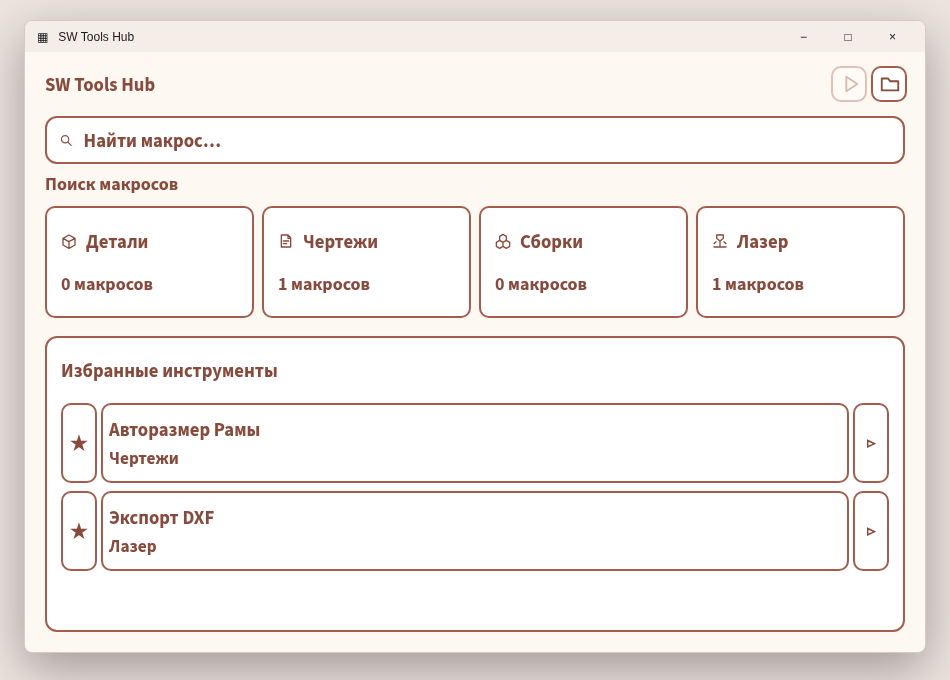
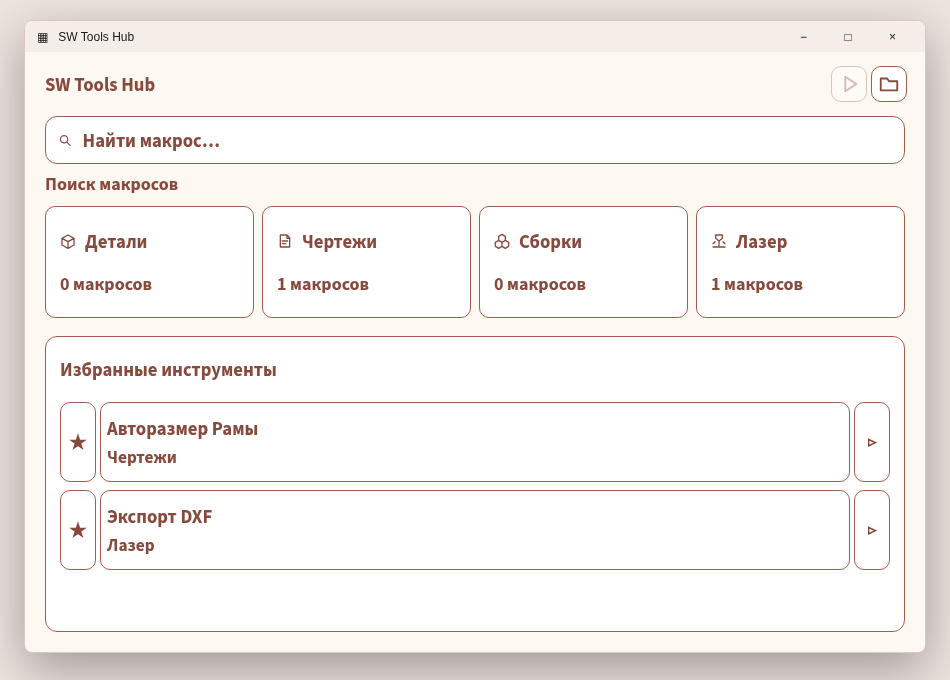
Вернуть тонкую окантовку, сохранив шрифт 14 pt и тёмный текст

diff --git a/docs/preview/index.html b/docs/preview/index.html
@@ -1,7 +1,7 @@
 <!doctype html><html lang="ru"><meta charset="utf-8"><title>SW Tools Hub — предварительный просмотр</title><style>
 @font-face{font-family:'Source Sans 3';src:url('../../addin/portable/Fonts/SourceSans3-Bold.ttf') format('truetype');font-weight:700;font-style:normal;font-display:block}
 
-*{box-sizing:border-box}body{margin:0;background:#EDE4DF;font:18.667px 'Source Sans 3','Segoe UI',Arial,sans-serif;font-weight:700;color:#874B3D;display:flex;justify-content:center;padding:20px}.window{width:902px;height:633px;background:#FEF8F2;border:1px solid #DDC8BF;border-radius:8px;overflow:hidden;box-shadow:0 16px 50px #0005}.titlebar{font-family:'Segoe UI',Arial,sans-serif;font-weight:400;height:31px;background:#F5EDE8;color:#18191c;display:flex;align-items:center;justify-content:space-between;padding:0 12px;font-size:12px}.titlebar span:last-child{letter-spacing:17px}.app{height:600px;display:flex;flex-direction:column}.header{height:64px;padding:12px 18px 12px 20px;display:flex;align-items:center;justify-content:space-between}strong{font-size:18.667px;font-weight:700}.toolbar{display:flex;gap:4px}button{border-radius:10px;border:2px solid #A35D4C;font:inherit;cursor:pointer;color:inherit;background:#FFFFFF}.toolbar button{width:36px;height:36px;display:grid;place-items:center}.toolbar button:hover,.tile:hover{background:#FFF6F0}svg{width:22px;height:22px;fill:none;stroke:currentColor;stroke-width:2;stroke-linejoin:round;stroke-linecap:round}.toolbar .disabled{opacity:.35}.search{height:48px;margin:0 20px 8px;padding:10px 12px;background:#FFFFFF;border:2px solid #A35D4C;border-radius:12px;display:flex;align-items:center;gap:8px}.search svg{width:15px;height:15px;color:#874B3D}.search input{color:#874B3D;background:transparent;border:0;outline:none;width:100%;font:inherit}.hint{height:30px;margin:0 20px;color:#874B3D;font-size:18px}.modules{height:112px;margin:4px 20px 8px;display:grid;grid-template-columns:repeat(4,minmax(0,1fr));gap:8px}.tile{text-align:left;padding:12px 14px;display:flex;flex-direction:column;justify-content:center;gap:18px}.tile .caption{display:flex;gap:9px;align-items:center}.tile svg{width:16px;height:16px}.tile small{font-size:18px;color:#874B3D}.tile.active{background:#FFF6F0}.content{flex:1;min-height:0;margin:10px 20px 20px;padding:20px 14px;background:#FFFFFF;border:2px solid #A35D4C;border-radius:12px;overflow:auto}h2{font-size:18.667px;margin:0 0 20px;font-weight:700}.empty{line-height:1.7;color:#874B3D;margin:0;font-size:18px}.status{display:none;height:44px;color:#874B3D;font-size:18px;padding:4px 20px}.footer{display:none;height:34px;padding:8px 20px;color:#874B3D;font-size:18px}.tag{font-size:10px;color:#874B3D;margin-top:15px}
+*{box-sizing:border-box}body{margin:0;background:#EDE4DF;font:18.667px 'Source Sans 3','Segoe UI',Arial,sans-serif;font-weight:700;color:#874B3D;display:flex;justify-content:center;padding:20px}.window{width:902px;height:633px;background:#FEF8F2;border:1px solid #DDC8BF;border-radius:8px;overflow:hidden;box-shadow:0 16px 50px #0005}.titlebar{font-family:'Segoe UI',Arial,sans-serif;font-weight:400;height:31px;background:#F5EDE8;color:#18191c;display:flex;align-items:center;justify-content:space-between;padding:0 12px;font-size:12px}.titlebar span:last-child{letter-spacing:17px}.app{height:600px;display:flex;flex-direction:column}.header{height:64px;padding:12px 18px 12px 20px;display:flex;align-items:center;justify-content:space-between}strong{font-size:18.667px;font-weight:700}.toolbar{display:flex;gap:4px}button{border-radius:10px;border:1px solid #A35D4C;font:inherit;cursor:pointer;color:inherit;background:#FFFFFF}.toolbar button{width:36px;height:36px;display:grid;place-items:center}.toolbar button:hover,.tile:hover{background:#FFF6F0}svg{width:22px;height:22px;fill:none;stroke:currentColor;stroke-width:2;stroke-linejoin:round;stroke-linecap:round}.toolbar .disabled{opacity:.35}.search{height:48px;margin:0 20px 8px;padding:10px 12px;background:#FFFFFF;border:1px solid #A35D4C;border-radius:12px;display:flex;align-items:center;gap:8px}.search svg{width:15px;height:15px;color:#874B3D}.search input{color:#874B3D;background:transparent;border:0;outline:none;width:100%;font:inherit}.hint{height:30px;margin:0 20px;color:#874B3D;font-size:18px}.modules{height:112px;margin:4px 20px 8px;display:grid;grid-template-columns:repeat(4,minmax(0,1fr));gap:8px}.tile{text-align:left;padding:12px 14px;display:flex;flex-direction:column;justify-content:center;gap:18px}.tile .caption{display:flex;gap:9px;align-items:center}.tile svg{width:16px;height:16px}.tile small{font-size:18px;color:#874B3D}.tile.active{background:#FFF6F0}.content{flex:1;min-height:0;margin:10px 20px 20px;padding:20px 14px;background:#FFFFFF;border:1px solid #A35D4C;border-radius:12px;overflow:auto}h2{font-size:18.667px;margin:0 0 20px;font-weight:700}.empty{line-height:1.7;color:#874B3D;margin:0;font-size:18px}.status{display:none;height:44px;color:#874B3D;font-size:18px;padding:4px 20px}.footer{display:none;height:34px;padding:8px 20px;color:#874B3D;font-size:18px}.tag{font-size:10px;color:#874B3D;margin-top:15px}
 .macro-row{display:grid;grid-template-columns:36px minmax(0,1fr) 36px;align-items:stretch;gap:4px;margin:0 0 8px;min-height:80px}.macro-row button{padding:6px;background:#FFFFFF;border-color:#A35D4C}.macro-name{text-align:left;min-width:0}.macro-name span{display:block;white-space:nowrap;overflow:hidden;text-overflow:ellipsis}.macro-name small{display:block;margin-top:5px;color:#874B3D;font:inherit;font-size:17.333px}.macro-name.selected{background:#FFF6F0}.row-play svg{width:17px;height:17px}.row-star{font-size:20px}
 .header,.search,.hint,.modules{flex-shrink:0}
 .tile,.macro-row button{background:#FFFFFF;color:#874B3D;border-color:#A35D4C}
@@ -9,7 +9,7 @@
 .tile:hover,.tile.active,.macro-row button:hover,.macro-name.selected{background:#FFF6F0;border-color:#A35D4C}
 .toolbar button{background:#FFFFFF;color:#874B3D;border-color:#A35D4C}
 .toolbar button:hover{background:#FFF6F0;border-color:#A35D4C}
-button:focus-visible{outline:3px solid #A35D4C;outline-offset:2px}
+button:focus-visible{outline:2px solid #A35D4C;outline-offset:2px}
 .search:focus-within{border-color:#A35D4C}
 .search input::placeholder{color:#874B3D;opacity:1}
 </style><body><div class="window"><div class="titlebar"><span>▦ &nbsp; SW Tools Hub</span><span>− □ ×</span></div><main class="app"><header class="header"><strong>SW Tools Hub</strong><div class="toolbar"><button class="disabled" title="Выберите макрос для запуска"><svg viewBox="0 0 24 24"><path d="m8 4 12 8-12 8Z"/></svg></button><button title="Выбрать папку библиотеки" onclick="document.getElementById('status').textContent='В приложении откроется системный выбор папки Windows.'"><svg viewBox="0 0 24 24"><path d="M3 6h7l2 3h9v10H3Z"/></svg></button></div></header><div class="search"><svg viewBox="0 0 24 24"><circle cx="10" cy="10" r="6"/><path d="m15 15 5 5"/></svg><input aria-label="Поиск макросов" oninput="render()" placeholder="Найти макрос…"></div><div class="hint">Поиск макросов</div><section class="modules"><button class="tile" onclick="show('Детали',this)"><span class="caption"><svg viewBox="0 0 24 24"><path d="m12 3 9 5v10l-9 5-9-5V8Zm0 10 9-5M3 8l9 5v10"/></svg>Детали</span><small>0 макросов</small></button><button class="tile" onclick="show('Чертежи',this)"><span class="caption"><svg viewBox="0 0 24 24"><path d="M5 3h10l4 4v14H5Zm10 0v5h4M8 12h8M8 16h5"/></svg>Чертежи</span><small>0 макросов</small></button><button class="tile" onclick="show('Сборки',this)"><span class="caption"><svg viewBox="0 0 24 24"><path d="m12 2 5 3v6l-5 3-5-3V5Zm-5 9-5 3v6l5 3 5-3v-6Zm10 0-5 3v6l5 3 5-3v-6Z"/></svg>Сборки</span><small>0 макросов</small></button><button class="tile" onclick="show('Лазер',this)"><span class="caption"><svg viewBox="0 0 24 24"><path d="M7 3h10v5l-5 4-5-4Zm5 9v7M3 21h18M6 13l-3 3m15-3 3 3"/></svg>Лазер</span><small>0 макросов</small></button></section><section class="content"><h2 id="heading">Избранные инструменты</h2><div id="rows"></div><p class="empty" id="empty">Нажмите ☆ рядом с макросом в разделе,<br>чтобы добавить его в избранное.</p></section><div class="status" id="status">Добавьте .swp в папки разделов библиотеки.</div><footer class="footer">0 инструментов · Portable</footer></main></div><script>

diff --git a/addin/portable/UiTheme.cs b/addin/portable/UiTheme.cs
@@ -55,9 +55,9 @@ namespace SWToolsHub.Portable
         {
             e.Graphics.Clear(Parent?.BackColor ?? BackColor);
             e.Graphics.SmoothingMode = SmoothingMode.AntiAlias;
-            using (var path = UiTheme.Shape(new RectangleF(1, 1, Width - 2, Height - 2), 12))
+            using (var path = UiTheme.Shape(new RectangleF(.5f, .5f, Width - 1, Height - 1), 12))
             using (var fill = new SolidBrush(BackColor))
-            using (var pen = new Pen(BorderColor, 2)) { e.Graphics.FillPath(fill, path); e.Graphics.DrawPath(pen, path); }
+            using (var pen = new Pen(BorderColor, 1)) { e.Graphics.FillPath(fill, path); e.Graphics.DrawPath(pen, path); }
         }
     }
     internal sealed class RoundedButton : Button
@@ -73,9 +73,9 @@ namespace SWToolsHub.Portable
             e.Graphics.SmoothingMode = SmoothingMode.AntiAlias;
             bool card = BackColor.ToArgb() == UiTheme.Card.ToArgb() || BackColor.ToArgb() == UiTheme.Selected.ToArgb();
             var hoverColor = card ? UiTheme.Selected : UiTheme.Background;
-            using (var path = UiTheme.Shape(new RectangleF(1.5f, 1.5f, Width - 3, Height - 3), 10))
+            using (var path = UiTheme.Shape(new RectangleF(1, 1, Width - 2, Height - 2), 10))
             using (var fill = new SolidBrush(hovered && Enabled ? hoverColor : BackColor))
-            using (var pen = new Pen(UiTheme.Border, Focused ? 3 : 2)) {
+            using (var pen = new Pen(UiTheme.Border, Focused ? 2 : 1)) {
                 e.Graphics.FillPath(fill, path); e.Graphics.DrawPath(pen, path);
             }
             if (Image != null) {

diff --git a/docs/HANDOFF.md b/docs/HANDOFF.md
@@ -1,5 +1,16 @@
 # Продолжение разработки SW Tools Hub
 
+## Тонкая окантовка при шрифте 14 pt (9 ноября 2026)
+
+По уточнению пользователя изменена только толщина рамок: 1 px вместо
+2 px, фокус кнопок — 2 px вместо 3 px. Source Sans 3 Bold 14 pt,
+тёмный текст #874B3D, светлый фон #FEF8F2 и компоновка сохранены.
+Сборка net48 прошла без ошибок и предупреждений; браузерный макет
+проверен на шрифт 14 pt/700, рамки 1 px, цвета, поиск, избранное,
+разделы, подписи и компактную ширину. Превью, ZIP и SHA-256 обновлены.
+WinForms/DPI и COM/VBA в Windows после изменения не проверялись.
+
+
 ## Более крупный жирный текст и толстые рамки (9 ноября 2026)
 
 Основной шрифт увеличен ровно на 2,5 pt: с 11,5 до 14 pt.

diff --git a/addin/portable/README.md b/addin/portable/README.md
@@ -1,5 +1,16 @@
 # Переносимое приложение
 
+## Тонкая окантовка при шрифте 14 pt (9 ноября 2026)
+
+По уточнению пользователя изменена только толщина рамок: 1 px вместо
+2 px, фокус кнопок — 2 px вместо 3 px. Source Sans 3 Bold 14 pt,
+тёмный текст #874B3D, светлый фон #FEF8F2 и компоновка сохранены.
+Сборка net48 прошла без ошибок и предупреждений; браузерный макет
+проверен на шрифт 14 pt/700, рамки 1 px, цвета, поиск, избранное,
+разделы, подписи и компактную ширину. Превью, ZIP и SHA-256 обновлены.
+WinForms/DPI и COM/VBA в Windows после изменения не проверялись.
+
+
 ## Более крупный жирный текст и толстые рамки (9 ноября 2026)
 
 Основной шрифт увеличен ровно на 2,5 pt: с 11,5 до 14 pt.
